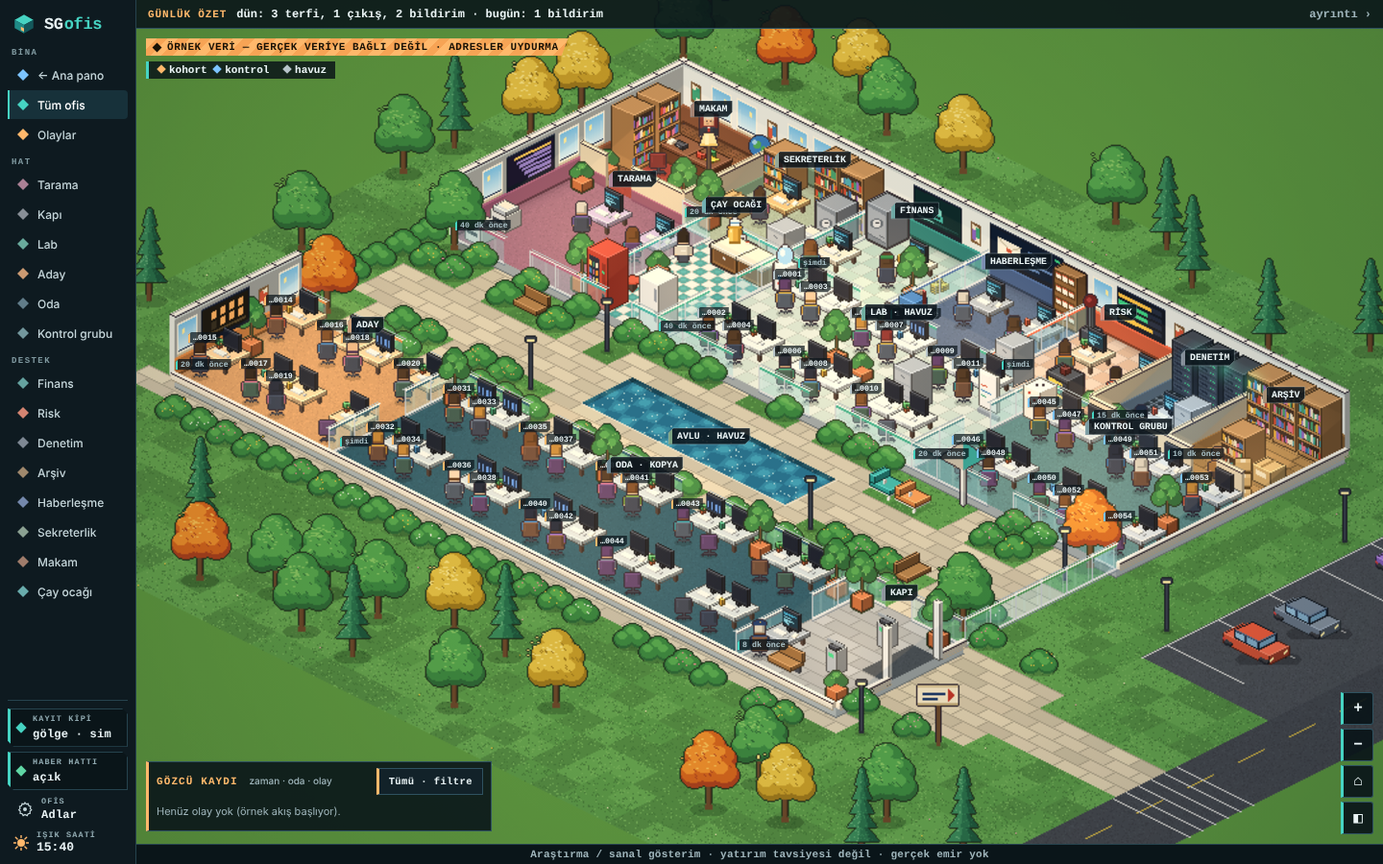
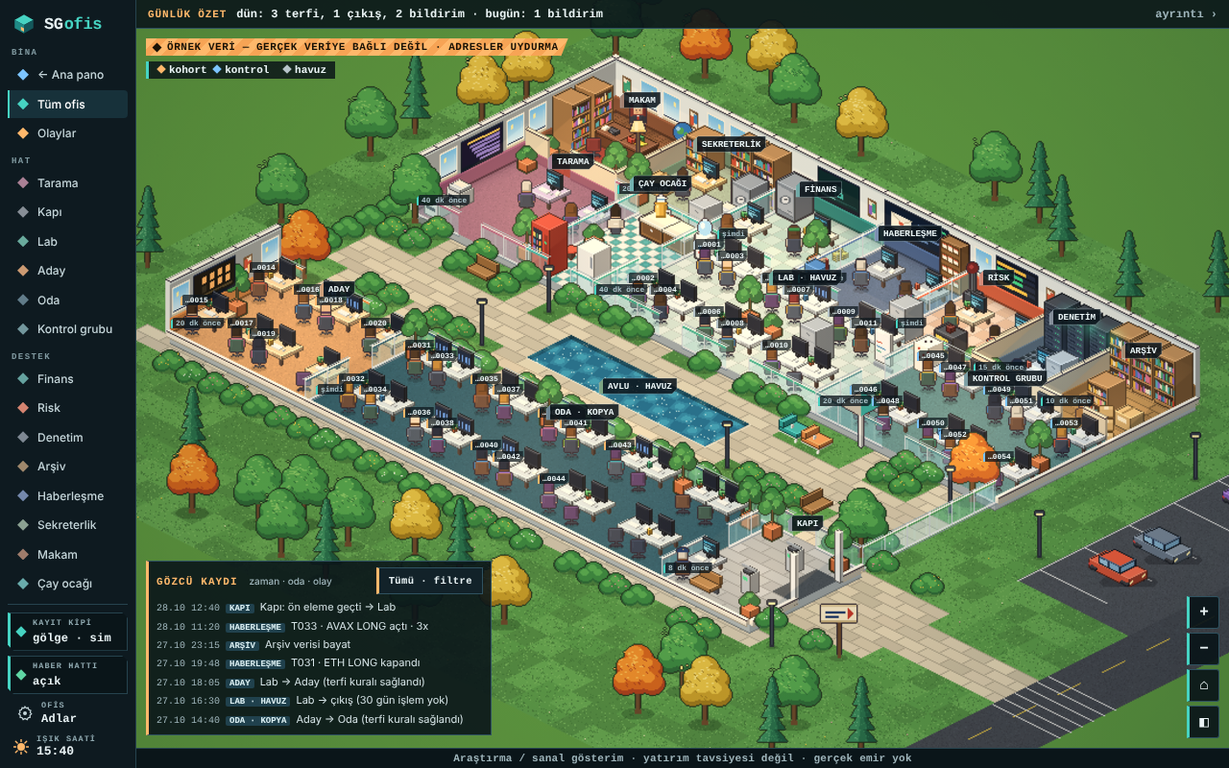
ofis: lider denetimi (izometrik tema, canlı veri, 390/1280 px) (#40)
* ofis: lider denetimi (izometrik tema, canlı veri, 390/1280 px)

1. Risk rozeti kaldıracı artık birimiyle yazılır ("4x"/"40x"), yüzdeye çevrilmez. Kök neden:
   gercek.js'teki kaldıraç tavanının birimi "x" (çarpan) iken hem tema.js'in rozeti hem panel.js'in
   Risk kartı değeri yüzde formülüyle (x*100) gösteriyordu — kullanim 40 olunca "%400" çıkıyordu.
2. Gözcü kaydı artık olay çekmecesiyle aynı kaynaktan (st.log + st.gecmis) doluyor; önceden yalnız
   st.log'a bakıyordu, gerçek veride st.log hiç dolmadığından (olaylar simüle edilmez) sürekli
   "Henüz olay yok" diyordu.
3. Gölge kasası "n=X gün" artık t0'dan bu yana geçen gerçek gün sayısı (t0 günü = 1); önceden
   hafta × 7 kullanılıyordu (hafta 1 → "n=7 gün", bugün 1. gün olsa bile).
4. İzometrik temada rozetler artık piksel tabanlı çatışma çözümüyle (tema.js: rozetYerlestir())
   yerleştiriliyor: ekran kenarından taşmaz, yakınlaştırma düğmeleriyle ve birbiriyle çakışmaz.
   390 px ve 1280 px'te doğrulandı (ekran görüntüleri ofis/kanit/tema/).
5. ofis/test/ui.test.js'teki 3 başarısız test ön kayıt körlüğü döneminden kalmaydı (Off.KILIT=false
   olduğundan kasa değeri zaten görünür); yeni davranışa göre güncellendi, silinmedi.
6. Arşiv/Sekreterlik'te veri yoksa (gerçek veride şimdilik hep öyle) "bilinmiyor" yerine rozet hiç
   gösterilmiyor (oda yine tıklanabilir). "paper izleme" → "sanal izleme" (tüm dosyalarda).

Testler: ofis/test/saat_taban.test.js'e 7 yeni kontrol (gözcü kaynağı, risk birimi, rozet taşma/
[…]

diff --git a/ofis/tema.js b/ofis/tema.js
@@ -37,7 +37,7 @@
     kap.hidden = !goster;
     const tuval = $('#tuval'); if (tuval) tuval.style.visibility = goster ? 'hidden' : 'visible';
     const sec = $('#temaSec'); if (sec && sec.value !== mevcut) sec.value = mevcut;
-    if (goster) { gorselYukle(); odaOdaklaSync(true); }
+    if (goster) { gorselYukle(); oturt(); odaOdaklaSync(true); }
     rozetleriCiz();
   }
   /* oda girişi/çıkışı body.oda-ici sınıfıyla main.js'te değişir: burada izlenip kendi yakınlaşmamız uygulanır. */
@@ -83,6 +83,8 @@
   }
   /* Risk: en kötü tavan kullanımı (ışık: 🟢/🟡/🔴). "Kalabalık" uyarısı yalnız kapasite bilinen kaynakta (ör. örnek veri)
      eklenir — gerçek veride oda.kapasite şimdilik hiç gelmiyor (gercek.js), sahte doluluk uydurulmaz. */
+  /* tavan birimi "x" (ör. kaldıraç) ise çarpan olarak yazılır (4x); "kasa payı"/diğerleri yüzde kalır. */
+  const tavanDeger = t => t.birim === 'x' ? Math.round(t.kullanim * 10) / 10 + 'x' : '%' + Math.round((t.tavan ? t.kullanim / t.tavan : 0) * 100);
   function riskBadge(s) {
     const o = off(), g = o.gri('risk'); if (g) return { t: g, c: 'gri' };
     const tv = s.risk.tavanlar; if (!tv.length) return { t: 'bilinmiyor', c: 'bil' };
@@ -90,7 +92,7 @@
     tv.forEach(t => { const r = t.tavan ? t.kullanim / t.tavan : 0; if (r > wr) { wr = r; worst = t; } });
     const c = wr >= 0.999 ? 'dn' : wr >= 0.75 ? 'wr' : 'ok', isik = c === 'dn' ? '🔴' : c === 'wr' ? '🟡' : '🟢';
     const kap = s.katlar.oda.kapasite, kalabalik = kap != null && s.katlar.oda.n != null && s.katlar.oda.n >= kap * 0.9 ? ' · kalabalık' : '';
-    return { t: isik + ' ' + (s.alarm ? 'TAVAN DOLU' : esc(worst.ad) + ' %' + Math.round(wr * 100)) + kalabalik, c: c };
+    return { t: isik + ' ' + (s.alarm ? 'TAVAN DOLU' : esc(worst.ad) + ' ' + tavanDeger(worst)) + kalabalik, c: c };
   }
   function labBadge(s) {
     const o = off(), g = o.gri('lab'); if (g) return { t: g, c: 'gri' };
@@ -132,6 +134,7 @@
     const o = off(), g = o.gri('arsiv'); if (g) return { t: g, c: 'gri' };
     const row = s.vk.find(x => x.anahtar === 'arsiv'), inf = o.ageInfo('arsiv');
     const val = row && row.deger != null ? row.deger : null;
+    if (val == null && !inf) return { t: 'bilinmiyor', c: 'bil' };
     return { t: val != null ? esc(val) : O.Panel.ageTxt(inf), c: inf && inf.stale ? 'wr' : 'ok' };
   }
   function makamBadge(s) {
@@ -163,22 +166,28 @@
       bk.appendChild(btn);
       if (pk) { const g = document.createElement('div'); g.className = 'izo-bolge-glow'; g.dataset.oda = b.oda; g.style.clipPath = clip; pk.appendChild(g); }
       if (ROZET[b.oda]) {
-        const bx = bbox(b.poli), cx = (bx.x0 + bx.x1) / 2, cy = bx.y0 + (bx.y1 - bx.y0) * 0.14;
+        const bx = bbox(b.poli);
+        const cx = Math.max(0.07, Math.min(0.93, (bx.x0 + bx.x1) / 2)), cy = Math.max(0.06, Math.min(0.88, bx.y0 + (bx.y1 - bx.y0) * 0.14));
         const d = document.createElement('div');
-        d.className = 'izo-rozet'; d.dataset.oda = b.oda;
+        d.className = 'izo-rozet'; d.dataset.oda = b.oda; d.dataset.cx = cx; d.dataset.cy = cy;
         d.style.left = (cx * 100).toFixed(2) + '%'; d.style.top = (cy * 100).toFixed(2) + '%';
         rk.appendChild(d);
       }
     });
     rozetleriCiz();
   }
+  /* Arşiv ve Sekreterlik'te veri yoksa (gerçek veride şimdilik hep öyle: gercek.js bu iki alanı doldurmuyor)
+     "bilinmiyor" rozetiyle gürültü yapmak yerine rozet hiç gösterilmez — oda yine tıklanabilir kalır. */
+  const ROZET_GIZLE_BILINMIYORSA = { arsiv: 1, sekreterlik: 1 };
   function rozetleriCiz() {
     const s = st(); if (!s) return;
     document.querySelectorAll('#izoRozetler .izo-rozet').forEach(d => {
       const f = ROZET[d.dataset.oda]; if (!f) return;
       const r = f(s) || { t: 'bilinmiyor', c: 'bil' };
-      d.innerHTML = r.t; d.className = 'izo-rozet' + (r.c ? ' ' + r.c : '');
+      if (r.c === 'bil' && ROZET_GIZLE_BILINMIYORSA[d.dataset.oda]) { d.hidden = true; return; }
+      d.hidden = false; d.innerHTML = r.t; d.className = 'izo-rozet' + (r.c ? ' ' + r.c : '');
     });
+    rozetYerlestir();
   }
   const mq = window.matchMedia ? window.matchMedia('(prefers-reduced-motion: reduce)') : { matches: false };
 
@@ -250,6 +259,33 @@
     if (h > r.height) { h = r.height; w = h * ORAN; }
     baseW = Math.max(1, w); baseH = Math.max(1, h);
     uygulaDonusum(false);
+    rozetYerlestir();
+  }
+  /* Rozetler önce oranlı (dataset.cx/cy) hedef konuma yerleşir; burada ekran kenarından taşmayacak, birbiriyle ve
+     yakınlaştırma düğmeleriyle çakışmayacak şekilde küçük kaydırmalarla düzeltilir (çatışma çözümü, px tabanlı).
+     Yalnız bina görünümünde çalışır (oda yakınken tek rozet öne çıkar, karışıklık daha az önemlidir). */
+  function rozetYerlestir() {
+    if (scale > 1.02) return;
+    const sahne = $('#izoSahne'); if (!sahne) return;
+    const sr = sahne.getBoundingClientRect(); if (!sr.width || !sr.height) return;
+    const zoomEl = document.querySelector('.izo-zoom'), zr = zoomEl ? zoomEl.getBoundingClientRect() : null;
+    const pad = 4, placed = [];
+    const rectOf = (bw, bh, x, y) => ({ x0: x - bw / 2, y0: y - bh / 2, x1: x + bw / 2, y1: y + bh / 2 });
+    const kesisir = (a, b) => a.x0 < b.x1 && a.x1 > b.x0 && a.y0 < b.y1 && a.y1 > b.y0;
+    document.querySelectorAll('#izoRozetler .izo-rozet').forEach(d => {
+      if (d.hidden || d.dataset.cx == null) return;
+      const bw = d.offsetWidth, bh = d.offsetHeight; if (!bw || !bh) return;
+      let cx = parseFloat(d.dataset.cx) * sr.width, cy = parseFloat(d.dataset.cy) * sr.height;
+      const sinirla = () => { cx = Math.max(bw / 2 + pad, Math.min(sr.width - bw / 2 - pad, cx)); cy = Math.max(bh / 2 + pad, Math.min(sr.height - bh / 2 - pad, cy)); };
+      sinirla();
+      if (zr) {
+        const zRel = { x0: zr.left - sr.left - 6, y0: zr.top - sr.top - 6, x1: zr.right - sr.left + 6, y1: zr.bottom - sr.top + 6 };
+        let tries = 0; while (kesisir(rectOf(bw, bh, cx, cy), zRel) && tries < 24) { cy -= 8; sinirla(); tries++; }
+      }
+      let tries2 = 0; while (placed.some(p => kesisir(rectOf(bw, bh, cx, cy), p)) && tries2 < 30) { cy += 8; sinirla(); tries2++; }
+      d.style.left = cx + 'px'; d.style.top = cy + 'px';
+      placed.push(rectOf(bw, bh, cx, cy));
+    });
   }
   function uygulaDonusum(animate) {
     const kap = $('#izoKap'), sahne = $('#izoSahne'); if (!kap || !sahne || !baseW) return;
@@ -265,8 +301,8 @@
     const mx = Math.min(0.5, (kap.clientWidth / 2) / rw), my = Math.min(0.5, (kap.clientHeight / 2) / rh);
     focusX = Math.max(mx, Math.min(1 - mx, focusX)); focusY = Math.max(my, Math.min(1 - my, focusY));
   }
-  function zoomBy(f) { scale = Math.max(1, Math.min(3, scale * f)); siniraCek(); uygulaDonusum(true); }
-  function sigdir(animate) { scale = 1; focusX = 0.5; focusY = 0.5; uygulaDonusum(animate !== false); }
+  function zoomBy(f) { scale = Math.max(1, Math.min(3, scale * f)); siniraCek(); uygulaDonusum(true); rozetYerlestir(); }
+  function sigdir(animate) { scale = 1; focusX = 0.5; focusY = 0.5; uygulaDonusum(animate !== false); rozetYerlestir(); }
   /* bir odaya "kamerayı" (odak + ölçek) yakınlaştır — klasik temanın interiorCam() mantığının izometrik karşılığı */
   function odaOdakla(id, animate) {
     const b = BOLGELER.find(x => x.oda === id); if (!b) { sigdir(animate); return; }

diff --git a/ofis/panel.js b/ofis/panel.js
@@ -20,7 +20,7 @@
   const ODA_AD = id => id === 'diger' ? 'Diğer' : (id === 'referans' ? 'Referans' : (() => { const r = O.World.roomById[id]; return r ? O.Names.room(id, r.ad) : id; })());
   const ORN_CHIP = '<span class="ornek">örnek</span>';
   let ORN = ORN_CHIP;                                   // gerçek veride rozet yok (render başında güncellenir)
-  const GRIN = '<span class="gri-not">paper izleme başlamadı</span>';
+  const GRIN = '<span class="gri-not">sanal izleme başlamadı</span>';
   P.ornekMi = () => String((O.data || {}).kaynak || '').indexOf('ornek') === 0;
 
   const dkTxt = m => { m = Math.round(m); return m < 1 ? 'şimdi' : m < 60 ? m + ' dk' : m < 1440 ? Math.floor(m / 60) + ' sa' + (m % 60 ? ' ' + (m % 60) + ' dk' : '') : Math.floor(m / 1440) + ' g'; };
@@ -47,11 +47,11 @@
     const cap = k.oda.kapasite;
     $('#ozetIcerik').innerHTML = (ornek
       ? box('Açık işlem', a.length, 'teminat ' + usd(tem)) + box('Bugün', 'n=' + (o.bugun_acilan_n + o.bugun_kapanan_n), o.bugun_acilan_n + ' açıldı · ' + o.bugun_kapanan_n + ' kapandı')
-      : box('Açık işlem', '<span class="gri-not">—</span>', 'paper izleme başlamadı') + box('Bugün', '<span class="gri-not">—</span>', 'paper izleme başlamadı')) +
+      : box('Açık işlem', '<span class="gri-not">—</span>', 'sanal izleme başlamadı') + box('Bugün', '<span class="gri-not">—</span>', 'sanal izleme başlamadı')) +
       box('Oda', num(k.oda.n) == null ? UNK : cap == null ? num(k.oda.n) : k.oda.n + '<small>/' + cap + '</small>', cap == null ? 'n=' + num(k.oda.n) + ' · ' + hm(k.oda.zaman) : 'doluluk ' + pct(k.oda.n / cap * 100, false, 0)) +
       box('Aday', num(k.aday.n) == null ? UNK : num(k.aday.n), 'n=' + num(k.aday.n) + ' · ' + hm(k.aday.zaman)) +
       box('Havuz', num(k.havuz.n) == null ? UNK : num(k.havuz.n), 'n=' + num(k.havuz.n) + ' · ' + hm(k.havuz.zaman)) +
-      box('İşlem başı', ornek ? usd(o.islem_basi_usd) : '<span class="gri-not">—</span>', ornek ? 'kural: kurallar.yaml' : 'paper izleme başlamadı');
+      box('İşlem başı', ornek ? usd(o.islem_basi_usd) : '<span class="gri-not">—</span>', ornek ? 'kural: kurallar.yaml' : 'sanal izleme başlamadı');
     $('#ozetMeta').innerHTML = (ornek ? 'veri ' + hm(o.zaman) : 'seçim verisi ' + hm(k.havuz.zaman)) + ' · ' + ORN;
   }
   function liveSec(x) { return (x.yas_dk || 0) * 60 + (x.t0 ? (Date.now() - x.t0) / 1000 : (Date.now() - st.loadMs) / 1000); }
@@ -105,7 +105,7 @@
   function risk() {
     if (Off.gri('risk')) { $('#riskIcerik').innerHTML = '<p class="bos">' + GRIN + '</p>'; $('#riskMeta').innerHTML = 'eşikler yalnız kurallar.yaml\'da'; return; }
     $('#riskIcerik').innerHTML = st.risk.tavanlar.map(t => {
-      const r = t.kullanim / t.tavan, c = r >= 0.999 ? 'dn' : r >= 0.75 ? 'wr' : 'ok', f = x => t.birim === 'kasa payı' ? pct(x * 100, false, 0) : '%' + Math.round(x * 100);
+      const r = t.kullanim / t.tavan, c = r >= 0.999 ? 'dn' : r >= 0.75 ? 'wr' : 'ok', f = x => t.birim === 'kasa payı' ? pct(x * 100, false, 0) : t.birim === 'x' ? (Math.round(x * 10) / 10) + 'x' : '%' + Math.round(x * 100);
       return '<div class="rr"><div class="rh"><b>' + esc(t.ad) + '</b><span class="' + c + '">' + (r >= 0.999 ? 'TAVAN DOLU' : '%' + Math.round(r * 100)) + '</span></div><div class="hb"><i class="' + c + '" style="width:' + Math.min(100, r * 100).toFixed(0) + '%"></i></div><div class="ks">' + esc(t.birim) + ': ' + f(t.kullanim) + ' / ' + f(t.tavan) + '</div></div>';
     }).join('');
     $('#riskMeta').innerHTML = 'veri ' + hm(st.risk.zaman) + ' · eşikler yalnız kurallar.yaml\'da · ' + ORN;
@@ -117,8 +117,15 @@
   /* Taban kolundaki traderlar Lab/havuz katında oturur (ayrı oda çizilmiyor) ama "taban" kontrol kümesi kavramsal
      olarak Lab'dan ayrıdır — olay etiketi karıştırmasın diye "Taban" yazılır (SEMA.md: traderlar[].kol). */
   const odaAdOlay = l => { const t = l.trader && st.traders[l.trader]; return t && t.kol === 'taban' ? 'Taban' : ODA_AD(l.oda); };
+  /* gözcü kaydı oturumun canlı günlüğü (st.log) + veri dosyasındaki geçmiş günlüğü (st.gecmis, gerçek veride buradan
+     gelir — olay çekmecesiyle aynı kaynak) birleştirir; yoksa sürekli boş kalırdı (örnek veri dışında st.log hiç dolmaz). */
+  function gozcuListesi() {
+    const log = st.log.map(l => ({ ts: l.ts, oda: l.oda, trader: l.trader, metin: l.metin, iso: l.iso }));
+    const gecmis = st.gecmis.map(g => ({ ts: Off.trTarihHM(g.zaman), oda: g.oda || '', trader: g.trader || null, metin: g.metin || g.tur, iso: g.zaman }));
+    return log.concat(gecmis).sort((a, b) => (a.iso < b.iso ? 1 : a.iso > b.iso ? -1 : 0));
+  }
   function gozcu() {
-    $('#gozcuListe').innerHTML = st.log.slice(0, 7).map(l => '<li><button data-oda="' + esc(l.oda) + '"><time>' + l.ts + '</time><i class="oc" data-o="' + esc(l.oda) + '">' + esc(odaAdOlay(l)) + '</i><span>' + esc(l.metin) + '</span></button></li>').join('') || '<li class="bos">' + (P.ornekMi() ? 'Henüz olay yok (örnek akış başlıyor).' : 'Henüz olay yok — paper izleme başlamadı.') + '</li>';
+    $('#gozcuListe').innerHTML = gozcuListesi().slice(0, 7).map(l => '<li><button data-oda="' + esc(l.oda) + '"><time>' + esc(l.ts) + '</time><i class="oc" data-o="' + esc(l.oda) + '">' + esc(odaAdOlay(l)) + '</i><span>' + esc(l.metin) + '</span></button></li>').join('') || '<li class="bos">' + (P.ornekMi() ? 'Henüz olay yok (örnek akış başlıyor).' : 'Henüz olay yok — sanal izleme başlamadı.') + '</li>';
   }
   function aciklama() {
     const k = st.katlar, ac = Object.keys(st.stale).filter(x => st.stale[x]).map(ODA_AD);

diff --git a/ofis/test/saat_taban.test.js b/ofis/test/saat_taban.test.js
@@ -28,8 +28,8 @@ const srv = http.createServer((q, r) => {
 }).listen(0, async () => {
   const base = 'http://localhost:' + srv.address().port + '/ofis/';
   const b = await chromium.launch();
-  async function gercekAc(url) {
-    const ctx = await b.newContext({ viewport: { width: 1440, height: 900 } });
+  async function gercekAc(url, vp) {
+    const ctx = await b.newContext({ viewport: vp || { width: 1440, height: 900 }, isMobile: !!(vp && vp.width < 700), hasTouch: !!(vp && vp.width < 700) });
     const pg = await ctx.newPage();
     const errs = []; pg.on('pageerror', e => errs.push(e.message)); pg.on('console', m => { if (m.type() === 'error' && !/Failed to load resource/.test(m.text())) errs.push(m.text()); });
     await pg.route('https://api.github.com/**', r => r.fulfill(json(F.agac(['2026-10-28'], ['2026-10-28']))));
@@ -81,6 +81,34 @@ const srv = http.createServer((q, r) => {
     ok(tema + ': "Oda" paneli açık işlemler listesini gösterir (durum.json\'daki pozisyondan, BTC)', acik.n === '1' && /BTC/.test(acik.html) && /LONG/.test(acik.html) && /3x/.test(acik.html) && acik.kartGorunur, JSON.stringify({ n: acik.n, kartGorunur: acik.kartGorunur, kisa: acik.html.slice(0, 200) }));
     const cekmeceVar = await pg.evaluate(() => !!document.getElementById('olayCekmece'));
     ok(tema + ': olay çekmecesi hâlâ yerinde (kaldırılmadı)', cekmeceVar);
+    await ctx.close();
+  }
+
+  /* ---------- Lider denetimi: gözcü kaydı aynı kaynaktan (st.gecmis), risk biriminin doğru yazımı, rozetler
+     ekrandan taşmaz/çakışmaz, Arşiv/Sekreterlik veri yoksa rozetsiz ---------- */
+  ({ ctx, pg, errs } = await gercekAc('?saat=15:40'));
+  const gozcu = await pg.evaluate(() => document.getElementById('gozcuListe').textContent);
+  ok('gözcü kaydı olay çekmecesiyle aynı kaynaktan dolar (st.log boşsa st.gecmis), "Taban" etiketiyle', !/Henüz olay yok/.test(gozcu) && /Taban/.test(gozcu), gozcu.slice(0, 200));
+  await pg.click('.ray [data-oda=risk]'); await sleep(500);
+  const riskTxt = await pg.evaluate(() => document.getElementById('riskIcerik').textContent);
+  ok('Risk kartında kaldıraç "x" birimiyle yazılır (yüzdeye çevrilmez): "3x / 10x"', /3x\s*\/\s*10x/.test(riskTxt), riskTxt.replace(/\s+/g, ' ').trim());
+  await ctx.close();
+
+  for (const vp of [{ width: 1280, height: 800 }, { width: 390, height: 844 }]) {
+    ({ ctx, pg, errs } = await gercekAc('?saat=15:40&tema=izometrik', vp));
+    const durum = await pg.evaluate(() => {
+      const kap = document.getElementById('izoKap').getBoundingClientRect(), zoom = document.querySelector('.izo-zoom').getBoundingClientRect();
+      const rozetler = [...document.querySelectorAll('#izoRozetler .izo-rozet')].filter(d => !d.hidden);
+      const tasan = rozetler.filter(d => { const r = d.getBoundingClientRect(); return r.left < kap.left - 1 || r.right > kap.right + 1 || r.top < kap.top - 1 || r.bottom > kap.bottom + 1; });
+      const kesisenler = rozetler.filter(d => { const r = d.getBoundingClientRect(); return r.left < zoom.right && r.right > zoom.left && r.top < zoom.bottom && r.bottom > zoom.top; });
+      const cakisanlar = [];
+      for (let i = 0; i < rozetler.length; i++) for (let j = i + 1; j < rozetler.length; j++) { const a = rozetler[i].getBoundingClientRect(), b = rozetler[j].getBoundingClientRect(); if (a.left < b.right && a.right > b.left && a.top < b.bottom && a.bottom > b.top) cakisanlar.push([rozetler[i].dataset.oda, rozetler[j].dataset.oda]); }
+      return { n: rozetler.length, tasanN: tasan.length, kesisenN: kesisenler.length, cakisanN: cakisanlar.length, odalar: rozetler.map(d => d.dataset.oda), detay: cakisanlar };
+    });
+    ok(JSON.stringify(vp) + ': rozetler görsel içinde kalır (ekrandan taşmaz)', durum.tasanN === 0, JSON.stringify(durum));
+    ok(JSON.stringify(vp) + ': hiçbir rozet yakınlaştırma düğmeleriyle çakışmaz', durum.kesisenN === 0, JSON.stringify(durum));
+    ok(JSON.stringify(vp) + ': rozetler birbiriyle çakışmaz', durum.cakisanN === 0, JSON.stringify(durum.detay));
+    ok(JSON.stringify(vp) + ': Arşiv/Sekreterlik veri yoksa rozetsiz (bilinmiyor yazmaz)', !durum.odalar.includes('arsiv') && !durum.odalar.includes('sekreterlik'), JSON.stringify(durum.odalar));
     await ctx.close();
   }
 

diff --git a/ofis/test/ui.test.js b/ofis/test/ui.test.js
@@ -223,7 +223,7 @@ const srv = http.createServer((q, r) => {
   ({ ctx, pg } = await open());
   await sleep(400);
   tx = await pg.evaluate(() => document.body.textContent);
-  ok('toplanmış performans (kasa değeri, % değişim, günlük toplam K/Z) hiçbir yerde yok', !/1\.01\d,\d\d/.test(tx) && !/%1,24/.test(tx) && !/Bugün\s*[−+-]\$/.test(tx) && /Kasa değeri kilitli/.test(tx), '');
+  ok('kasa değeri ve getiri görünür (Off.KILIT=false; ön kayıt körlüğü yalnız lider kararıyla açılır)', /\$1\.012,40/.test(tx) && /\+%1,2/.test(tx), '');
   ok('yasal ibare her ekranda ("araştırma / sanal, yatırım tavsiyesi değil")', await pg.evaluate(() => { const y = document.getElementById('yasal'); const r = y.getBoundingClientRect(); return /yatırım tavsiyesi değil/.test(y.textContent) && r.height > 0; }));
   await pg.click('.ray [data-oda=finans]'); await sleep(900);
   await pg.evaluate(() => { const o = OFIS.World.objects.find(x => x.id === 'finans.kasa'); const s = o.e.s, x0 = o.e.px - s.ax, y0 = o.e.py - s.ay; const hits = []; for (let y = 2; y < s.c.height; y += 2) for (let x = 2; x < s.c.width; x += 2) { const p = OFIS.debug.pick(x0 + x, y0 + y, false); if (p && p.type === 'obje') hits.push([x0 + x, y0 + y]); } const mx = hits.reduce((a, h) => a + h[0], 0) / hits.length, my = hits.reduce((a, h) => a + h[1], 0) / hits.length; hits.sort((a, b) => Math.hypot(a[0] - mx, a[1] - my) - Math.hypot(b[0] - mx, b[1] - my)); const v = OFIS.debug.toView(hits[0][0], hits[0][1]), r = document.getElementById('tuval').getBoundingClientRect(); window.__pt = { x: v.x + r.left, y: v.y + r.top }; });
@@ -442,7 +442,7 @@ const srv = http.createServer((q, r) => {
   ok('diğer odalar (Denetim, Sekreterlik, Makam, Çay ocağı) → oda bilgisi kartı, panel kapalı', digerleri.length === 0, digerleri.join(' | ').slice(0, 300));
   /* kartlar panelde: sütundan alınır, kapanınca yerine döner */
   await pg.click('.ray [data-oda=finans]'); await sleep(450);
-  ok('panelde kart sütunundan alınan gerçek kart (Gölge kasası kilitli içerik)', await pg.evaluate(() => { const k = document.querySelector('#kartPanel #cKasa'); return !!k && /kilitli/i.test(k.textContent) && k.closest('#sol') === null; }));
+  ok('panelde kart sütunundan alınan gerçek kart (Gölge kasası görünür değer)', await pg.evaluate(() => { const k = document.querySelector('#kartPanel #cKasa'); return !!k && /\$1\.012,40/.test(k.textContent) && k.closest('#sol') === null; }));
   const sirasi = await pg.evaluate(() => [...document.querySelectorAll('#sol > .kart')].map(k => k.id).join(','));
   ok('açıkken kart sütunundan eksik (cKasa yok)', !/cKasa/.test(sirasi), sirasi);
   /* kapatma yolları */
@@ -490,7 +490,7 @@ const srv = http.createServer((q, r) => {
   /* performans körlüğü ve yasal ibare paneldeyken de aynı */
   await pg.click('.ray [data-oda=finans]'); await sleep(450);
   const pnlTxt = await pg.evaluate(() => document.getElementById('kartPanel').textContent);
-  ok('panelde de kasa değeri yok ("kilitli"), yasal ibare görünür', /kilitli/i.test(pnlTxt) && !/toplam kasa|kasa değeri:\s*\$/i.test(pnlTxt) && /yatırım tavsiyesi değil/i.test(await pg.evaluate(() => document.getElementById('yasal').textContent)));
+  ok('panelde de kasa değeri görünür, yasal ibare de görünür', /\$1\.012,40/.test(pnlTxt) && /yatırım tavsiyesi değil/i.test(await pg.evaluate(() => document.getElementById('yasal').textContent)));
   /* ◧ düğmesi klasik sütunu geri getirir: panel modu kapanır, eski davranış */
   await pg.click('#zPanel'); await sleep(400);
   const dC = await pg.evaluate(() => ({ sol: getComputedStyle(document.getElementById('sol')).display, panel: document.getElementById('kartPanel').hidden, bas: document.getElementById('zPanel').getAttribute('aria-pressed'), n: document.querySelectorAll('#sol > .kart').length }));

diff --git a/ofis/test/gercek_ui.test.js b/ofis/test/gercek_ui.test.js
@@ -47,10 +47,10 @@ const srv = http.createServer((q, r) => {
   ok('örnek veri şeridi yok', !sera.o);
   const durum = await pg.evaluate(() => { const s = OFIS.Office.state(), n = k => s.actors.filter(a => a.kind === 'trader' && a.kat === k).length; return { oda: n('oda'), aday: n('aday'), lab: n('lab'), kontrol: n('kontrol'), gri: ['lab', 'finans', 'risk', 'oda', 'aday'].map(r => OFIS.Office.gri(r)), gizli: !!OFIS.World.roomById.kontrol.gizli, out: !!OFIS.World.roomById.kontrol.out, kaynak: OFIS.data.kaynak }; });
   ok('figürler: oda 6, aday 3, lab 0, kontrol 0', durum.oda === 6 && durum.aday === 3 && durum.lab === 0 && durum.kontrol === 0, JSON.stringify(durum));
-  ok('gri odalar: lab, finans, risk; oda ve aday gri değil', durum.gri.join('|') === 'paper izleme başlamadı|paper izleme başlamadı|paper izleme başlamadı||' || (durum.gri[0] && durum.gri[1] && durum.gri[2] && !durum.gri[3] && !durum.gri[4]), JSON.stringify(durum.gri));
+  ok('gri odalar: lab, finans, risk; oda ve aday gri değil', durum.gri.join('|') === 'sanal izleme başlamadı|sanal izleme başlamadı|sanal izleme başlamadı||' || (durum.gri[0] && durum.gri[1] && durum.gri[2] && !durum.gri[3] && !durum.gri[4]), JSON.stringify(durum.gri));
   ok('kontrol odası gizli (etkileşim dışı)', durum.gizli && durum.out);
   const t = await govde(pg);
-  ok('sol panel: kasa/risk "paper izleme başlamadı"', (t.match(/paper izleme başlamadı/g) || []).length >= 7, String((t.match(/paper izleme başlamadı/g) || []).length));
+  ok('sol panel: kasa/risk "sanal izleme başlamadı"', (t.match(/sanal izleme başlamadı/g) || []).length >= 7, String((t.match(/sanal izleme başlamadı/g) || []).length));
   ok('"örnek" rozeti ve "örnek veri" yazısı yok', !/örnek/i.test(t.replace(/Örnek veri yalnız[^\n]*/i, '')), (t.match(/.{20}örnek.{20}/i) || [''])[0]);
   ok('körlük: para birimi ($), K/Z, "puan" yok', !/\$\d/.test(t) && !/K\/Z/.test(t) && !/puan/i.test(t), (t.match(/.{15}(\$\d|K\/Z|puan).{15}/i) || [''])[0]);
   ok('etiket eşleşmezse kontrol veri yoktur; örnek kontrol figürü yok', /Kontrol \(sabit\)\s*N=5/i.test(t) && (t.match(/KONTROL GRUBU/gi) || []).length === 0, (t.match(/.{10}ontrol.{20}/g) || []).join(' | '));
@@ -59,7 +59,7 @@ const srv = http.createServer((q, r) => {
   const bilgi = await pg.evaluate(() => ['tarama', 'kapi', 'lab', 'finans', 'risk', 'oda'].map(r => OFIS.Office.roomInfo(r).lines.join(' ')));
   ok('Tarama odası: evren 13.710 · işlenen 13.767', /Evren: 13\.710/.test(bilgi[0]) && /İşlenen: 13\.767/.test(bilgi[0]), bilgi[0]);
   ok('Kapı odası: havuz 30 · aday 9 · oda 6', /Havuz: 30 · Aday: 9 · Oda: 6/.test(bilgi[1]), bilgi[1]);
-  ok('Lab, Finans, Risk odası bilgisi: paper izleme başlamadı', bilgi.slice(2, 5).every(x => /^paper izleme başlamadı\.$/.test(x)), bilgi.slice(2, 5).join('|'));
+  ok('Lab, Finans, Risk odası bilgisi: sanal izleme başlamadı', bilgi.slice(2, 5).every(x => /^sanal izleme başlamadı\.$/.test(x)), bilgi.slice(2, 5).join('|'));
   ok('Oda bilgisi kontrol/para içermez', !/kontrol|\$/i.test(bilgi[5]), bilgi[5]);
   /* trader bilgi kutusu */
   await pg.evaluate(() => { const a = OFIS.Office.state().actorById.O01; OFIS.Info.show ? OFIS.Info.show({ type: 'person', a: a }) : null; });

diff --git a/ofis/gercek.js b/ofis/gercek.js
@@ -12,7 +12,7 @@
   const HAM = 'https://raw.githubusercontent.com/' + REPO + '/' + DAL + '/';
   const IZLEME_HAM = 'https://raw.githubusercontent.com/' + REPO + '/' + IZLEME_DALI + '/izleme/durum.json';
   const ESIK_DK = 7 * 1440;                                   // seçim ve kapı haftalık/günlük üretilir: bir haftadan eskiyse VERİ ESKİ
-  const GRI = 'paper izleme başlamadı';
+  const GRI = 'sanal izleme başlamadı';
   const TARIH = /^\d{4}-\d{2}-\d{2}/;
 
   /* ağaç (GitHub git/trees yanıtı ya da yol listesi) → en son seçim klasörü ve kapı tarihleri */
@@ -78,13 +78,14 @@
     const kol = name => eslesmis.filter(t => (t.kollar || []).indexOf(name) >= 0).map(t => t.sanal_kopya).filter(Boolean);
     const getiri = name => { const a = kol(name); return a.length ? a.reduce((x, c) => x + (sayi(c.getiri) || 0), 0) / a.length : null; };
     const hafta = onaylandi ? Math.max(1, Math.floor((simdi.getTime() - Date.parse(tarih + 'T00:00:00Z')) / 604800000) + 1) : 0;
+    const gunSayisi = onaylandi ? Math.max(1, Math.floor((simdi.getTime() - Date.parse(tarih + 'T00:00:00Z')) / 86400000) + 1) : null;   // t0 günü = 1 (hafta×7 değil)
     const gecmis = (live && live.olaylar || []).map(e => ({ id: e.id, zaman: e.zaman, tur: e.tur === 'acilis' ? 'islem_acildi' : e.tur === 'kapanis' ? 'islem_kapandi' : e.tur, oda: (liveRows.find(t => t.id === e.trader) || {}).kat || 'diger', trader: e.trader, metin: e.trader + ' · ' + e.coin + ' · ' + e.tur })).filter(e => e.tur === 'islem_acildi' || e.tur === 'islem_kapandi');
     const maxLev = eslesmis.filter(t => (t.kollar || []).indexOf('oda') >= 0).reduce((x, t) => Math.max(x, ...(t.pozisyonlar || []).map(p => sayi(p.kaldirac) || 0)), 0);
     return {
       surum: 1, uretildi: simdi.toISOString(), kaynak: 'hyperliquid-kapi (veri dalı ' + DAL + ', seçim ' + surum + ' ' + tarih + ')',
       secim: { surum: surum, tarih: tarih, kapi_tarihi: opt.kapiTarihi || null, onaylandi: onaylandi },
       cipler: { golge: onaylandi ? 'açık' : GRI, telegram: null },
-      kasa: { deger_usd: onaylandi ? kol('oda').reduce((x, c) => x + (sayi(c.bakiye_usd) || 0), 0) : null, baslangic_usd: onaylandi ? kol('oda').reduce((x, c) => x + (sayi(c.baslangic_usd) || 0), 0) : null, zaman: live && live.uretildi || null, gun_n: onaylandi ? hafta * 7 : null, egri: [], kontrol_deger_usd: onaylandi ? kol('kontrol').reduce((x, c) => x + (sayi(c.bakiye_usd) || 0), 0) : null },
+      kasa: { deger_usd: onaylandi ? kol('oda').reduce((x, c) => x + (sayi(c.bakiye_usd) || 0), 0) : null, baslangic_usd: onaylandi ? kol('oda').reduce((x, c) => x + (sayi(c.baslangic_usd) || 0), 0) : null, zaman: live && live.uretildi || null, gun_n: gunSayisi, egri: [], kontrol_deger_usd: onaylandi ? kol('kontrol').reduce((x, c) => x + (sayi(c.bakiye_usd) || 0), 0) : null },
       ozet: { islem_basi_usd: null, bugun_kz_usd: null, bugun_acilan_n: null, bugun_kapanan_n: null, zaman: null },
       katlar: {
         havuz: { n: kolSayi('havuz'), masa: 0, zaman: z, esik_dk: ESIK_DK },

diff --git a/ofis/test/gercek.test.js b/ofis/test/gercek.test.js
@@ -36,7 +36,7 @@ ok('masa: lab 0, aday 3, oda 6, kontrol 0', d.katlar.havuz.masa === 0 && d.katla
 ok('tarama odası: evren, işlenen, kapsam, hesap sürümü', JSON.stringify(d.oda_sayilar.tarama) === JSON.stringify([['Evren', 13710], ['İşlenen', 13767], ['Kapsam', '%100'], ['Hesap sürümü', 'v1.1-2026-10-27d']]), JSON.stringify(d.oda_sayilar.tarama));
 ok('kapı odası: havuz, aday, oda', JSON.stringify(d.oda_sayilar.kapi) === JSON.stringify([['Havuz', 30], ['Aday', 9], ['Oda', 6]]));
 ok('kontrol kolu: yalnız sayı, kohort kartında (n=5)', d.kohort_kontrol.kollar.some(k => /Kontrol/.test(k.ad) && k.n === 5) && d.oda_durum.kontrol.gizli === true);
-ok('finans, risk, lab gri: "paper izleme başlamadı"', ['lab', 'finans', 'risk'].every(r => d.oda_durum[r].gri && d.oda_durum[r].metin === 'paper izleme başlamadı'));
+ok('finans, risk, lab gri: "sanal izleme başlamadı"', ['lab', 'finans', 'risk'].every(r => d.oda_durum[r].gri && d.oda_durum[r].metin === 'sanal izleme başlamadı'));
 ok('tarama veri kalitesi satırı durum.json sayılarını taşır', d.veri_kalitesi[0].deger === 'evren 13.710 · işlenen 13.767 · kapsam %100', d.veri_kalitesi[0].deger);
 ok('verisi olmayan kalite satırları "bilinmiyor", sıfır değil', d.veri_kalitesi.slice(1).every(v => v.durum === 'bilinmiyor' && v.deger === null && v.zaman === null));
 ok('seçim sürümü v1 (secim.json sürüm vermiyorsa), tarih', d.secim.surum === 'v1' && d.secim.tarih === '2026-10-28' && d.secim.onaylandi === false);
@@ -55,6 +55,8 @@ const btc = canli.acik_islemler.find(x => x.coin === 'BTC'), eth = canli.acik_is
 ok('altın örnek (BTC): yön/kaldıraç/K-Z aynen taşınır, süre = uretildi − acılış (2 sa = 120 dk)', btc && btc.yon === 'long' && btc.kaldirac === 3 && btc.kz_usd === -29.5 && btc.yas_dk === 120, JSON.stringify(btc));
 ok('altın örnek (ETH): short, 30 dk önce açıldı', eth && eth.yon === 'short' && eth.kaldirac === 5 && eth.kz_usd === 12.25 && eth.yas_dk === 30, JSON.stringify(eth));
 ok('sahte veri yok: yüzde/teminat/likidasyon uydurulmaz (durum.json\'da yok), null kalır', canli.acik_islemler.every(x => x.kz_yuzde === null && x.teminat_usd === null && x.lik_uzaklik === null));
+/* gölge kasası günü: t0'dan bu yana gün sayısı (t0 günü = 1), hafta × 7 değil (lider denetimi: "n=7 gün" → bugün 1 hatasıydı) */
+ok('kasa.gun_n: t0\'dan bu yana gün (hafta × 7 değil)', canli.kasa.gun_n === Math.floor((SIMDI.getTime() - Date.parse('2026-10-28T00:00:00Z')) / 86400000) + 1 && canli.kasa.gun_n !== canli.kohort_kontrol.hafta * 7, 'gun_n=' + canli.kasa.gun_n + ' hafta=' + canli.kohort_kontrol.hafta);
 
 /* canlı yol sözleşmesi: tek ağaç çağrısı + iki ham dosya, doğru adreslerle */
 (async () => {

diff --git a/ofis/office.js b/ofis/office.js
@@ -47,7 +47,7 @@
     srcOfRoom(room).forEach(o => { const i = Off.srcInfo(o); if (!i) return; if (!w || (i.stale && !w.stale) || (i.stale === w.stale && i.dk > w.dk)) w = i; });
     return w;
   };
-  /* henüz verisi olmayan oda (oda_durum[oda].gri): "paper izleme başlamadı" metni ya da null. Oda gri çizilir, sahte sayı gösterilmez. */
+  /* henüz verisi olmayan oda (oda_durum[oda].gri): "sanal izleme başlamadı" metni ya da null. Oda gri çizilir, sahte sayı gösterilmez. */
   Off.gri = room => { const d = st && st.data.oda_durum && st.data.oda_durum[room]; return d && d.gri ? (d.metin || 'veri yok') : null; };
   Off.screenAge = id => { const p = (st.data.ekran_kaynak || {})[id]; return p ? Off.srcInfo(srcObj(p)) : null; };
   Off.srcObj = srcObj;
@@ -589,7 +589,7 @@
       case 'oda': lines.push('Oda: ' + (k.oda.kapasite == null ? 'n=' + k.oda.n : k.oda.n + '/' + k.oda.kapasite) + ' trader' + (st.data.oda_durum ? '' : '; açık gölge işlemi ' + st.acik.length) + '.'); break;
       case 'kontrol': lines.push('Kontrol: aynı havuzdan rastgele N=' + (st.kk.kollar[1] || {}).n + ' adres (sabit tohum).'); break;
       case 'risk': lines.push('Risk tavanları: ' + st.risk.tavanlar.map(x => x.ad + ' %' + Math.round(x.kullanim / x.tavan * 100)).join(' · ')); break;
-      case 'finans': lines.push('Sanal kasa değeri ve eğrisi kilitli (hafta ' + st.kk.hafta + '/' + st.kk.hafta_toplam + ').'); break;
+      case 'finans': lines.push(Off.KILIT ? 'Sanal kasa değeri ve eğrisi kilitli (hafta ' + st.kk.hafta + '/' + st.kk.hafta_toplam + ').' : 'Sanal kasa değeri: ' + (st.kasa.deger_usd == null ? 'bilinmiyor' : '$' + st.kasa.deger_usd.toLocaleString('tr-TR', { minimumFractionDigits: 2 })) + ' (hafta ' + st.kk.hafta + '/' + st.kk.hafta_toplam + ').'); break;
       case 'haberlesme': lines.push('Telegram bildirimi bugün: n=' + st.tg.bugun_n + '.'); break;
       case 'denetim': lines.push('Son denetim: ' + (st.denetim === 'tamam' ? 'tamam' : 'uyarı') + '.'); break;
       case 'arsiv': lines.push('Arşiv: ' + ((st.vk.find(x => x.anahtar === 'arsiv') || {}).deger || 'bilinmiyor') + '.'); break;

diff --git a/ofis/index.html b/ofis/index.html
@@ -5,7 +5,7 @@
   <meta name="viewport" content="width=device-width, initial-scale=1">
   <title>SG Ofis · animasyonlu pano</title>
   <meta name="description" content="sg-arge copy trade hattının animasyonlu izometrik ofis görünümü. Örnek veriyle çalışır; gerçek emir yok.">
-  <link rel="stylesheet" href="ofis.css?v=6c0cb29">
+  <link rel="stylesheet" href="ofis.css?v=913eed6">
 </head>
 <body class="tam">
 <a class="atla" href="#ofisTuval">Ofise geç</a>
@@ -179,19 +179,19 @@
     <p class="yasal">Araştırma / sanal gösterim; yatırım tavsiyesi değildir.</p>
   </div>
 </dialog>
-<script src="px.js?v=6c0cb29"></script>
-<script src="sprites.js?v=6c0cb29"></script>
-<script src="kisiler.js?v=6c0cb29"></script>
-<script src="world.js?v=6c0cb29"></script>
-<script src="gercek.js?v=6c0cb29"></script>
-<script src="office.js?v=6c0cb29"></script>
-<script src="ad.js?v=6c0cb29"></script>
-<script src="iletisim.js?v=6c0cb29"></script>
-<script src="bilgi.js?v=6c0cb29"></script>
-<script src="cekmece.js?v=6c0cb29"></script>
-<script src="ses.js?v=6c0cb29"></script>
-<script src="panel.js?v=6c0cb29"></script>
-<script src="tema.js?v=6c0cb29"></script>
-<script src="main.js?v=6c0cb29"></script>
+<script src="px.js?v=913eed6"></script>
+<script src="sprites.js?v=913eed6"></script>
+<script src="kisiler.js?v=913eed6"></script>
+<script src="world.js?v=913eed6"></script>
+<script src="gercek.js?v=913eed6"></script>
+<script src="office.js?v=913eed6"></script>
+<script src="ad.js?v=913eed6"></script>
+<script src="iletisim.js?v=913eed6"></script>
+<script src="bilgi.js?v=913eed6"></script>
+<script src="cekmece.js?v=913eed6"></script>
+<script src="ses.js?v=913eed6"></script>
+<script src="panel.js?v=913eed6"></script>
+<script src="tema.js?v=913eed6"></script>
+<script src="main.js?v=913eed6"></script>
 </body>
 </html>

diff --git a/ofis/test/tema.test.js b/ofis/test/tema.test.js
@@ -124,12 +124,12 @@ const srv = http.createServer((q, r) => {
   ok('Arşiv rozeti: veri_kalitesi.deger metnini kullanır', r.arsiv.t === '48.210 satır', JSON.stringify(r.arsiv));
   ok('Makam rozeti: hafta/toplam', r.makam.t.indexOf('hafta 5/12') === 0, JSON.stringify(r.makam));
   /* gri oda (henüz verisi olmayan): gerçek veri senaryosunda rozet "gri" metnini gösterir, sayı uydurmaz */
-  const griOrnek = { oda_durum: { finans: { gri: true, metin: 'paper izleme başlamadı' } } };
+  const griOrnek = { oda_durum: { finans: { gri: true, metin: 'sanal izleme başlamadı' } } };
   const griSonuc = await pg.evaluate(gdata => {
     const eski = OFIS.data.oda_durum; OFIS.data.oda_durum = gdata.oda_durum;
     const r = OFIS.Tema.debug.rozet('finans'); OFIS.data.oda_durum = eski; return r;
   }, griOrnek);
-  ok('Finans gri (veri yok) durumunda rozet gri metni gösterir, sayı uydurmaz', griSonuc.t === 'paper izleme başlamadı' && griSonuc.c === 'gri', JSON.stringify(griSonuc));
+  ok('Finans gri (veri yok) durumunda rozet gri metni gösterir, sayı uydurmaz', griSonuc.t === 'sanal izleme başlamadı' && griSonuc.c === 'gri', JSON.stringify(griSonuc));
   /* Sekreterlik rozeti: onkayit_kasasi.surum alanından (SEMA.md §8; ornek_durum.json altın değeri) */
   const sekreterlik = await pg.evaluate(() => OFIS.Tema.debug.rozet('sekreterlik'));
   ok('Sekreterlik rozeti: onkayit_kasasi.surum metnini taşır', sekreterlik.t === 'ön kayıt ' + ornek.onkayit_kasasi.surum, JSON.stringify(sekreterlik));

diff --git a/ofis/bilgi.js b/ofis/bilgi.js
@@ -102,7 +102,7 @@
     }
     if (t.bayrak) list.push(row('Kırmızı bayrak', esc(t.bayrak.neden), 'Denetim notu'));
     if (tr.length) tr.forEach(x => list.push(row(x.coin + ' ' + (x.yon === 'long' ? 'LONG' : 'SHORT') + ' ' + x.kaldirac + 'x', usd(x.kz_usd) + ' (' + pct(x.kz_yuzde) + ')', 'lik. uzaklık %' + String(x.lik_uzaklik).replace('.', ',') + ' · açık işlem')));
-    else list.push(row('Açık gölge işlem', O.Panel.ornekMi() ? 'yok' : 'paper izleme başlamadı'));
+    else list.push(row('Açık gölge işlem', O.Panel.ornekMi() ? 'yok' : 'sanal izleme başlamadı'));
     return list;
   }
   function objRows(id, st) {

diff --git a/ofis/SEMA.md b/ofis/SEMA.md
@@ -115,6 +115,6 @@ Kaynak (varsayılan; `?durum` yoksa): `sg-arge` veri dalı `copytrade-kapi`.
 | `kohort_kontrol.kollar` | oda, kontrol, taban, elle sayıları (kontrol kolu ofiste **yalnız burada** sayı olarak görünür) |
 | `secim` | `{surum, tarih, kapi_tarihi, onaylandi:false}`; üst şerit: "Seçim <sürüm> — ön izleme, onaylanmadı (<tarih>)" |
 
-Yeni alanlar (yalnız ekleme, `surum` hâlâ 1): `oda_durum: {oda: {gri, metin} | {gizli}}` — `gri` oda gri çizilir, köşede metin ("paper izleme başlamadı") yazar, bilgi kutusu aynı metni söyler, sol panel kartı sayı yerine bu metni gösterir; `gizli` oda (kontrol) ofiste çizilmez, tıklanamaz, sol menüde yoktur. `oda_sayilar: {oda: [[ad, değer], …]}` oda bilgisi satırı. `secim`.
+Yeni alanlar (yalnız ekleme, `surum` hâlâ 1): `oda_durum: {oda: {gri, metin} | {gizli}}` — `gri` oda gri çizilir, köşede metin ("sanal izleme başlamadı") yazar, bilgi kutusu aynı metni söyler, sol panel kartı sayı yerine bu metni gösterir; `gizli` oda (kontrol) ofiste çizilmez, tıklanamaz, sol menüde yoktur. `oda_sayilar: {oda: [[ad, değer], …]}` oda bilgisi satırı. `secim`.
 Gerçek veride: **kasa, özet, risk, telegram, kapanan işlem, olaylar boştur**; Lab, Finans, Risk gri; "örnek" rozetleri yoktur. Körlük: kâr/zarar, kol karşılaştırması, puan hiçbir yerde yer almaz.
 **Açık işlemler** istisnadır: seçim etiketi onaylıysa (`secim.onaylandi`), yalnız Oda üyelerinin (`kollar` içinde `oda`) `copytrade-izleme/izleme/durum.json`'daki `pozisyonlar[]` listesinden gelir (`coin`, `yon`, `kaldirac`, `kz_usd`, `yas_dk`: açılıştan veri üretim anına kadar). Kaynakta olmayan `kz_yuzde`, `lik_uzaklik`, `teminat_usd` uydurulmaz, `null` kalır (panelde "bilinmiyor").
